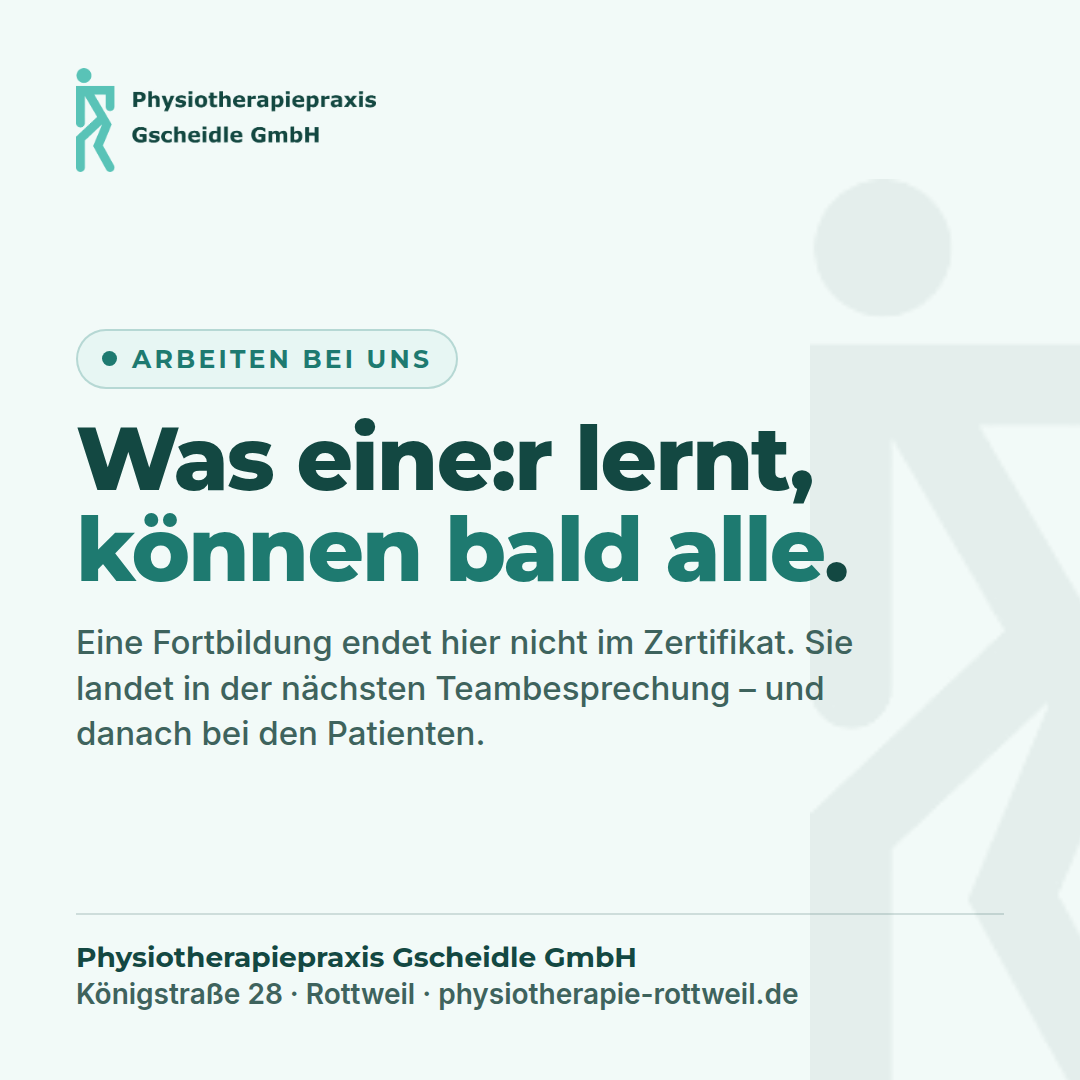
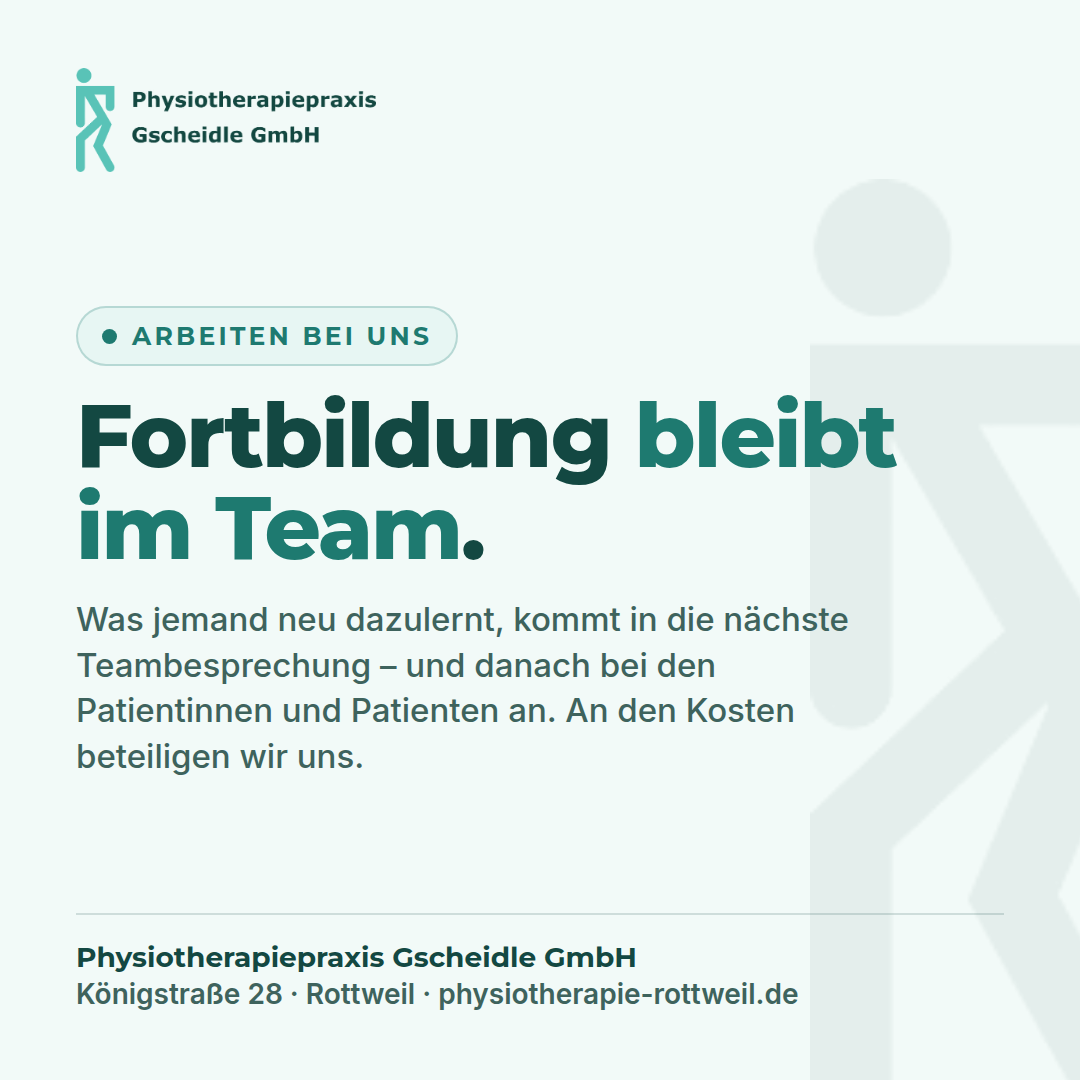
Markenbeitraege neutraler und schlichter fassen
Zwei Stellen waren heikel. "Den Papierkram machen zwei Kolleginnen"
ordnet den Empfang einem Geschlecht zu - auch wenn es gerade stimmt,
schliesst es beim Lesen aus und wird falsch, sobald sich das Team
aendert. Und "Keine Kette. Keine Zentrale." tritt gegen andere
Arbeitgeber, statt ueber die eigene Praxis zu sprechen.

Neu: marke-empfang ("Am Empfang laufen die Faeden zusammen") und
marke-praxis ("Eine Praxis. Kurze Wege."). Beide ohne Rollenzuschreibung
und ohne Vergleich. marke-fortbildung heisst jetzt schlicht "Fortbildung
bleibt im Team"; der Appell "Stillstand ist keine Option" ist raus.

Durchgaengig Paarform statt Sonderzeichen - Kolleginnen und Kollegen,
Patientinnen und Patienten - das liest sich ruhiger und schliesst
niemanden aus. In den Bildunterschriften stehen keine Emojis mehr; die
Anzeigentexte behalten sie, die konkurrieren im Feed gegen Werbung.

INSTAGRAM.md haelt die Haltung hinter den Texten jetzt ausdruecklich
fest, damit kuenftige Beitraege dieselbe Linie treffen.

Claude-Session: https://claude.ai/code/session_01LtBBjQMCSQX7tc7qtC8CYr

Changed region(s): [[0.0611, 0.275, 0.825, 0.7333]]

diff --git a/creatives/index.html b/creatives/index.html
@@ -255,27 +255,26 @@ const MOTIVE = [
     sub:'Zwei Kolleginnen am Empfang nehmen dir Terminplanung und Papierkram ab.',
     ticks:['Voll- oder Teilzeit, unbefristet','Keine Wochenenddienste']
   },
-  /* Arbeitgebermarke: aus Sicht der Kolleg:innen, nicht der Patienten.
-     Jeder Beitrag beantwortet "wie ist es, hier zu arbeiten?" - ohne eine
-     Stelle auszuschreiben. Deshalb durchgaengig die Kopfzeile
-     "Arbeiten bei uns" und kein Bewerben-Knopf. */
+  /* Arbeitgebermarke: schlicht gehalten, aus Sicht der Praxis.
+     Keine Rolle wird einem Geschlecht zugeordnet, kein Vergleich mit
+     anderen Arbeitgebern, keine Stelle ausgeschrieben. */
   {
-    name:'marke-rezeption', theme:'t-dark', photo:'behandlungsraum.jpg', brand:true,
+    name:'marke-empfang', theme:'t-dark', photo:'behandlungsraum.jpg', brand:true,
     eyebrow:'Arbeiten bei uns',
-    h1:'Den Papierkram machen <em>zwei Kolleginnen</em>.',
-    sub:'Termine, Telefon, Rezeptprüfung. Damit die, die therapieren, auch wirklich therapieren können.'
+    h1:'Am Empfang laufen <em>die Fäden zusammen</em>.',
+    sub:'Termine, Telefon und Rezepte liegen beim Empfang. So bleibt in der Behandlung Zeit für die Behandlung.'
   },
   {
-    name:'marke-unabhaengig', theme:'t-mint', brand:true,
+    name:'marke-praxis', theme:'t-mint', brand:true,
     eyebrow:'Arbeiten bei uns',
-    h1:'Keine Kette. <em>Keine Zentrale.</em>',
-    sub:'Eine Praxis, sieben Kolleg:innen, seit 1998 in der Königstraße. Was sich ändern soll, wird hier besprochen – nicht in einem Hauptsitz.'
+    h1:'Eine Praxis. <em>Kurze Wege.</em>',
+    sub:'Sieben Kolleginnen und Kollegen, seit 1998 in der Königstraße. Was besprochen werden muss, wird hier besprochen.'
   },
   {
     name:'marke-fortbildung', theme:'t-light', brand:true,
     eyebrow:'Arbeiten bei uns',
-    h1:'Was eine:r lernt, <em>können bald alle</em>.',
-    sub:'Eine Fortbildung endet hier nicht im Zertifikat. Sie landet in der nächsten Teambesprechung – und danach bei den Patienten.'
+    h1:'Fortbildung <em>bleibt im Team</em>.',
+    sub:'Was jemand neu dazulernt, kommt in die nächste Teambesprechung – und danach bei den Patientinnen und Patienten an. An den Kosten beteiligen wir uns.'
   },
 
   {

diff --git a/creatives/INSTAGRAM.md b/creatives/INSTAGRAM.md
@@ -1,79 +1,78 @@
 # Instagram · Arbeitgebermarke
 
 Drei organische Beiträge, die **keine Stelle ausschreiben**. Sie beantworten
-eine einzige Frage: *Wie ist es, in dieser Praxis zu arbeiten?*
-
-Das ist der Unterschied zu normalem Praxismarketing. Ein Beitrag über gute
-Befunde oder lange Tradition spricht Patienten an. Diese drei sprechen
-Kolleg:innen an – über Entlastung, über Entscheidungswege, über
-Weiterentwicklung. Wer sich davon angesprochen fühlt, merkt sich die Praxis;
-bewerben kann er sich später über die Anzeigen.
+eine einzige Frage: *Wie ist es, in dieser Praxis zu arbeiten?* Wer sich davon
+angesprochen fühlt, merkt sich die Praxis; bewerben kann er sich später über
+die Anzeigen.
 
 Deshalb tragen alle drei die Kopfzeile **„Arbeiten bei uns"**, keinen
 „Jetzt bewerben"-Knopf und nennen die Stelle an keiner Stelle.
 
 **Dateien** (je 4:5, 1:1 und 9:16 in [`png/`](png)):
-`marke-rezeption`, `marke-unabhaengig`, `marke-fortbildung`
+`marke-empfang`, `marke-praxis`, `marke-fortbildung`
 
 Für den Feed 4:5 nehmen (bekommt am meisten Fläche), 1:1 wenn das Raster
 einheitlich bleiben soll, 9:16 für die Story-Zweitverwertung.
 
----
+## Haltung der Texte
 
-## 1 · „Den Papierkram machen zwei Kolleginnen."
+Die Beiträge sind bewusst schlicht und allgemein gehalten:
 
-**Datei:** `marke-rezeption-45.png` · **Fläche:** Praxisfoto
-
-> Den Papierkram machen zwei Kolleginnen. 📞
->
-> Termine vergeben, Telefon, Rezepte prüfen, Folgeverordnungen hinterher sein: In vielen Praxen macht das der oder die Therapeut:in zwischen zwei Behandlungen.
->
-> Bei uns nicht. Dafür sitzen zwei Kolleginnen am Empfang – von 7 bis 19 Uhr.
->
-> Damit die, die therapieren, auch wirklich therapieren können. 🤍
->
-> #physiotherapie #rottweil #arbeitenbeiuns #praxisteam #physiojob #teamarbeit #praxisgscheidle #gesundheitsberufe
-
-**Warum das zieht:** Der Verwaltungskram ist der meistgenannte Frustpunkt im
-Beruf. Wer ihn abnimmt, sagt mehr über sich als jede Floskel über „tolles Team".
-
----
-
-## 2 · „Keine Kette. Keine Zentrale."
-
-**Datei:** `marke-unabhaengig-45.png` · **Fläche:** Türkis
-
-> Keine Kette. Keine Zentrale. 📍
->
-> Eine Praxis, sieben Kolleg:innen, seit 1998 in der Königstraße 28.
->
-> Das heißt: Wenn etwas nicht läuft, wird es hier besprochen und hier entschieden. Kein Ticket an einen Hauptsitz, keine Vorgabe aus einer Region, die niemand kennt.
->
-> Kleine Praxis, kurze Wege. Manchmal ist das genau der Punkt. 🤍
->
-> #physiotherapie #rottweil #arbeitenbeiuns #inhabergeführt #kleineunternehmen #physiojob #praxisgscheidle #königstraße
-
-**Warum das zieht:** Immer mehr Praxen gehören zu Ketten. Unabhängigkeit ist für
-viele Therapeut:innen ein echtes Argument – man muss sie nur benennen.
+- **Keine Rolle wird einem Geschlecht zugeordnet.** Es heißt „der Empfang",
+  nicht „zwei Kolleginnen" – auch wenn das gerade so ist. Wer die Beiträge in
+  einem Jahr liest, soll sich nicht ausgeschlossen fühlen, und das Team kann
+  sich ändern, ohne dass der Beitrag falsch wird.
+- **Kein Vergleich mit anderen Arbeitgebern.** Kein „in vielen Praxen ist das
+  anders", kein Seitenhieb auf Ketten. Die Praxis sagt, wie sie es macht –
+  fertig.
+- **Keine Superlative, keine Appelle.** Kein „das stärkste Team", kein
+  „Stillstand ist keine Option". Solche Sätze altern schnell und wirken
+  bemüht.
+- **Durchgängig geschlechtsneutral oder in Paarform** („Kolleginnen und
+  Kollegen", „Patientinnen und Patienten", „jemand"). Das liest sich ruhiger
+  als Sonderzeichen und schließt niemanden aus.
 
 ---
 
-## 3 · „Was eine:r lernt, können bald alle."
+## 1 · „Am Empfang laufen die Fäden zusammen."
+
+**Datei:** `marke-empfang-45.png` · **Fläche:** Praxisfoto
+
+> Am Empfang laufen die Fäden zusammen.
+>
+> Termine, Telefon, Rezepte, Folgeverordnungen: Das liegt bei uns beim Empfang und nicht bei den Therapeutinnen und Therapeuten.
+>
+> So bleibt in der Behandlung Zeit für die Behandlung.
+>
+> #physiotherapie #rottweil #arbeitenbeiuns #praxisteam #teamarbeit #praxisgscheidle #gesundheitsberufe
+
+---
+
+## 2 · „Eine Praxis. Kurze Wege."
+
+**Datei:** `marke-praxis-45.png` · **Fläche:** Türkis
+
+> Eine Praxis. Kurze Wege.
+>
+> Sieben Kolleginnen und Kollegen, seit 1998 in der Königstraße 28 in Rottweil. Dazu Hausbesuche und die Pflegeheime in der Region.
+>
+> Was besprochen werden muss, wird hier besprochen – an einem Tisch.
+>
+> #physiotherapie #rottweil #arbeitenbeiuns #praxisteam #inhabergeführt #praxisgscheidle #königstraße
+
+---
+
+## 3 · „Fortbildung bleibt im Team."
 
 **Datei:** `marke-fortbildung-45.png` · **Fläche:** helle Fläche
 
-> Was eine:r lernt, können bald alle. 📚
+> Fortbildung bleibt im Team.
 >
-> Eine Fortbildung endet hier nicht im Zertifikat an der Wand. Sie landet in der nächsten Teambesprechung – und ein paar Wochen später bei den Patienten.
+> Was jemand neu dazulernt, kommt in die nächste Teambesprechung – und ein paar Wochen später bei den Patientinnen und Patienten an.
 >
-> Manuelle Therapie, Lymphdrainage, Bobath, CMD: Jede Zusatzqualifikation im Team macht die Praxis als Ganzes besser. Deshalb beteiligen wir uns an den Kosten.
->
-> Weil Stillstand in diesem Beruf keine Option ist. 💪
+> Manuelle Therapie, Lymphdrainage, Bobath, CMD: Jede Zusatzqualifikation im Team macht die Praxis als Ganzes besser. An den Kosten beteiligen wir uns nach Absprache.
 >
 > #fortbildung #physiotherapie #manuelletherapie #lymphdrainage #bobath #cmd #weiterbildung #arbeitenbeiuns #rottweil #praxisgscheidle
-
-**Warum das zieht:** Das stärkste Signal an Therapeut:innen, die sich
-weiterentwickeln wollen – ohne dass eine Stelle dabeisteht.
 
 ---
 
@@ -87,17 +86,20 @@ Wenn die Stellenanzeigen parallel laufen, ist die Reihenfolge günstig:
 erst ein Markenbeitrag, ein paar Tage später die Anzeige. Wer den Beitrag
 gesehen hat, erkennt die Praxis wieder.
 
+## Emojis
+
+In diesen drei Beiträgen stehen bewusst keine. Die Anzeigentexte in
+[`WERBETEXTE.md`](WERBETEXTE.md) arbeiten damit, weil sie im Feed gegen
+Werbung konkurrieren; die Markenbeiträge sollen ruhig wirken. Wenn sie
+lockerer sein dürfen, lässt sich pro Beitrag einer ergänzen.
+
 ## Nachschub
 
-Weitere Themen, die ohne Stellenausschreibung funktionieren und für die nur
-ein Foto fehlt:
+Weitere Themen in derselben Perspektive, für die jeweils nur ein Foto fehlt:
 
 - **Ein Tag im Behandlungsraum** – was zwischen erstem und letztem Termin passiert
-- **Hausbesuche** – wie die Touren laufen und warum der Dienstwagen dazugehört
+- **Hausbesuche** – wie die Touren laufen und was dafür bereitsteht
 - **Teambesprechung** – wie fachlicher Austausch hier konkret aussieht
-- **Neue Kollegin, erste Woche** – Einarbeitung aus ihrer Sicht erzählt
-
-Alle vier bleiben in der Perspektive „so arbeiten wir" und schreiben keine
-Stelle aus. Für jeden fehlt nur ein Foto.
+- **Die erste Woche** – wie die Einarbeitung bei uns abläuft
 
 Sag Bescheid, dann baue ich die als Motive dazu.

diff --git a/creatives/README.md b/creatives/README.md
@@ -51,18 +51,18 @@ Dienstwagen, weil er das stärkste Argument der Praxis ist (Vorschlag in
 
 | Beitrag | Überschrift | Fläche |
 |---|---|---|
-| `marke-rezeption` | „Den Papierkram machen zwei Kolleginnen." – Entlastung | **Praxisfoto** |
-| `marke-unabhaengig` | „Keine Kette. Keine Zentrale." – kurze Entscheidungswege | Türkis |
-| `marke-fortbildung` | „Was eine:r lernt, können bald alle." – Weiterentwicklung | helle Fläche |
+| `marke-empfang` | „Am Empfang laufen die Fäden zusammen." – Entlastung | **Praxisfoto** |
+| `marke-praxis` | „Eine Praxis. Kurze Wege." – kleine Praxis, kurze Absprachen | Türkis |
+| `marke-fortbildung` | „Fortbildung bleibt im Team." – Weiterentwicklung | helle Fläche |
 
 Diese drei tragen das Feld `brand:true`. Damit fällt der „Jetzt bewerben"-Knopf
 weg und im Fuß steht nur die Praxis – es sind Beiträge, keine Anzeigen.
 
-Alle drei beantworten dieselbe Frage: **wie ist es, hier zu arbeiten?** Das ist
-der Unterschied zu Praxismarketing – ein Beitrag über gute Befunde oder lange
-Tradition spricht Patienten an, diese sprechen Kolleg:innen an. Deshalb
-durchgängig die Kopfzeile „Arbeiten bei uns". Die Texte stehen in
-[`INSTAGRAM.md`](INSTAGRAM.md).
+Alle drei beantworten dieselbe Frage: **wie ist es, hier zu arbeiten?** Deshalb
+durchgängig die Kopfzeile „Arbeiten bei uns". Sie sind bewusst schlicht und
+allgemein gehalten: keine Rolle wird einem Geschlecht zugeordnet, es gibt keinen
+Vergleich mit anderen Arbeitgebern und keine Superlative. Die Begründung dazu
+und die Texte stehen in [`INSTAGRAM.md`](INSTAGRAM.md).
 
 ## Neu rendern
 
